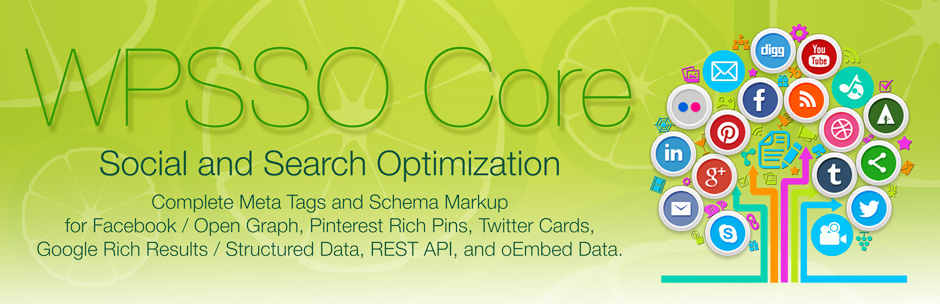
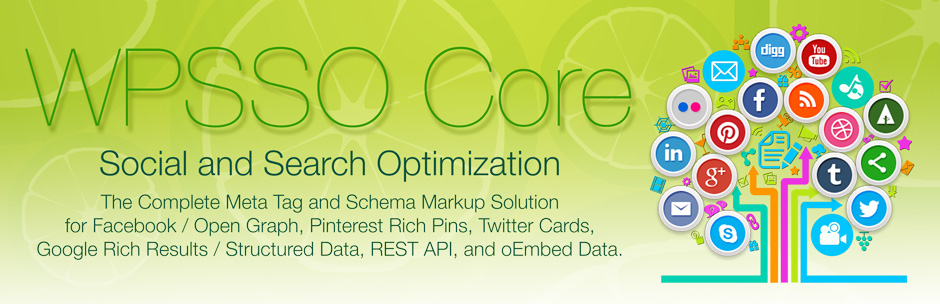
non-essential support files (documentation and assets)

diff --git a/index.html b/index.html
@@ -25,7 +25,7 @@
         </ul>
       </header>
       <section>
-<h1>WPSSO Core</h1><h3>The Complete Social and Search Meta Tag and Markup Solution</h3>
+<h1>WPSSO Core</h1><h3>The Complete Meta Tag and Schema Markup Solution</h3>
 
 <table>
 <tr><th align="right" valign="top" nowrap>Plugin Name</th><td>WPSSO Core</td></tr>
